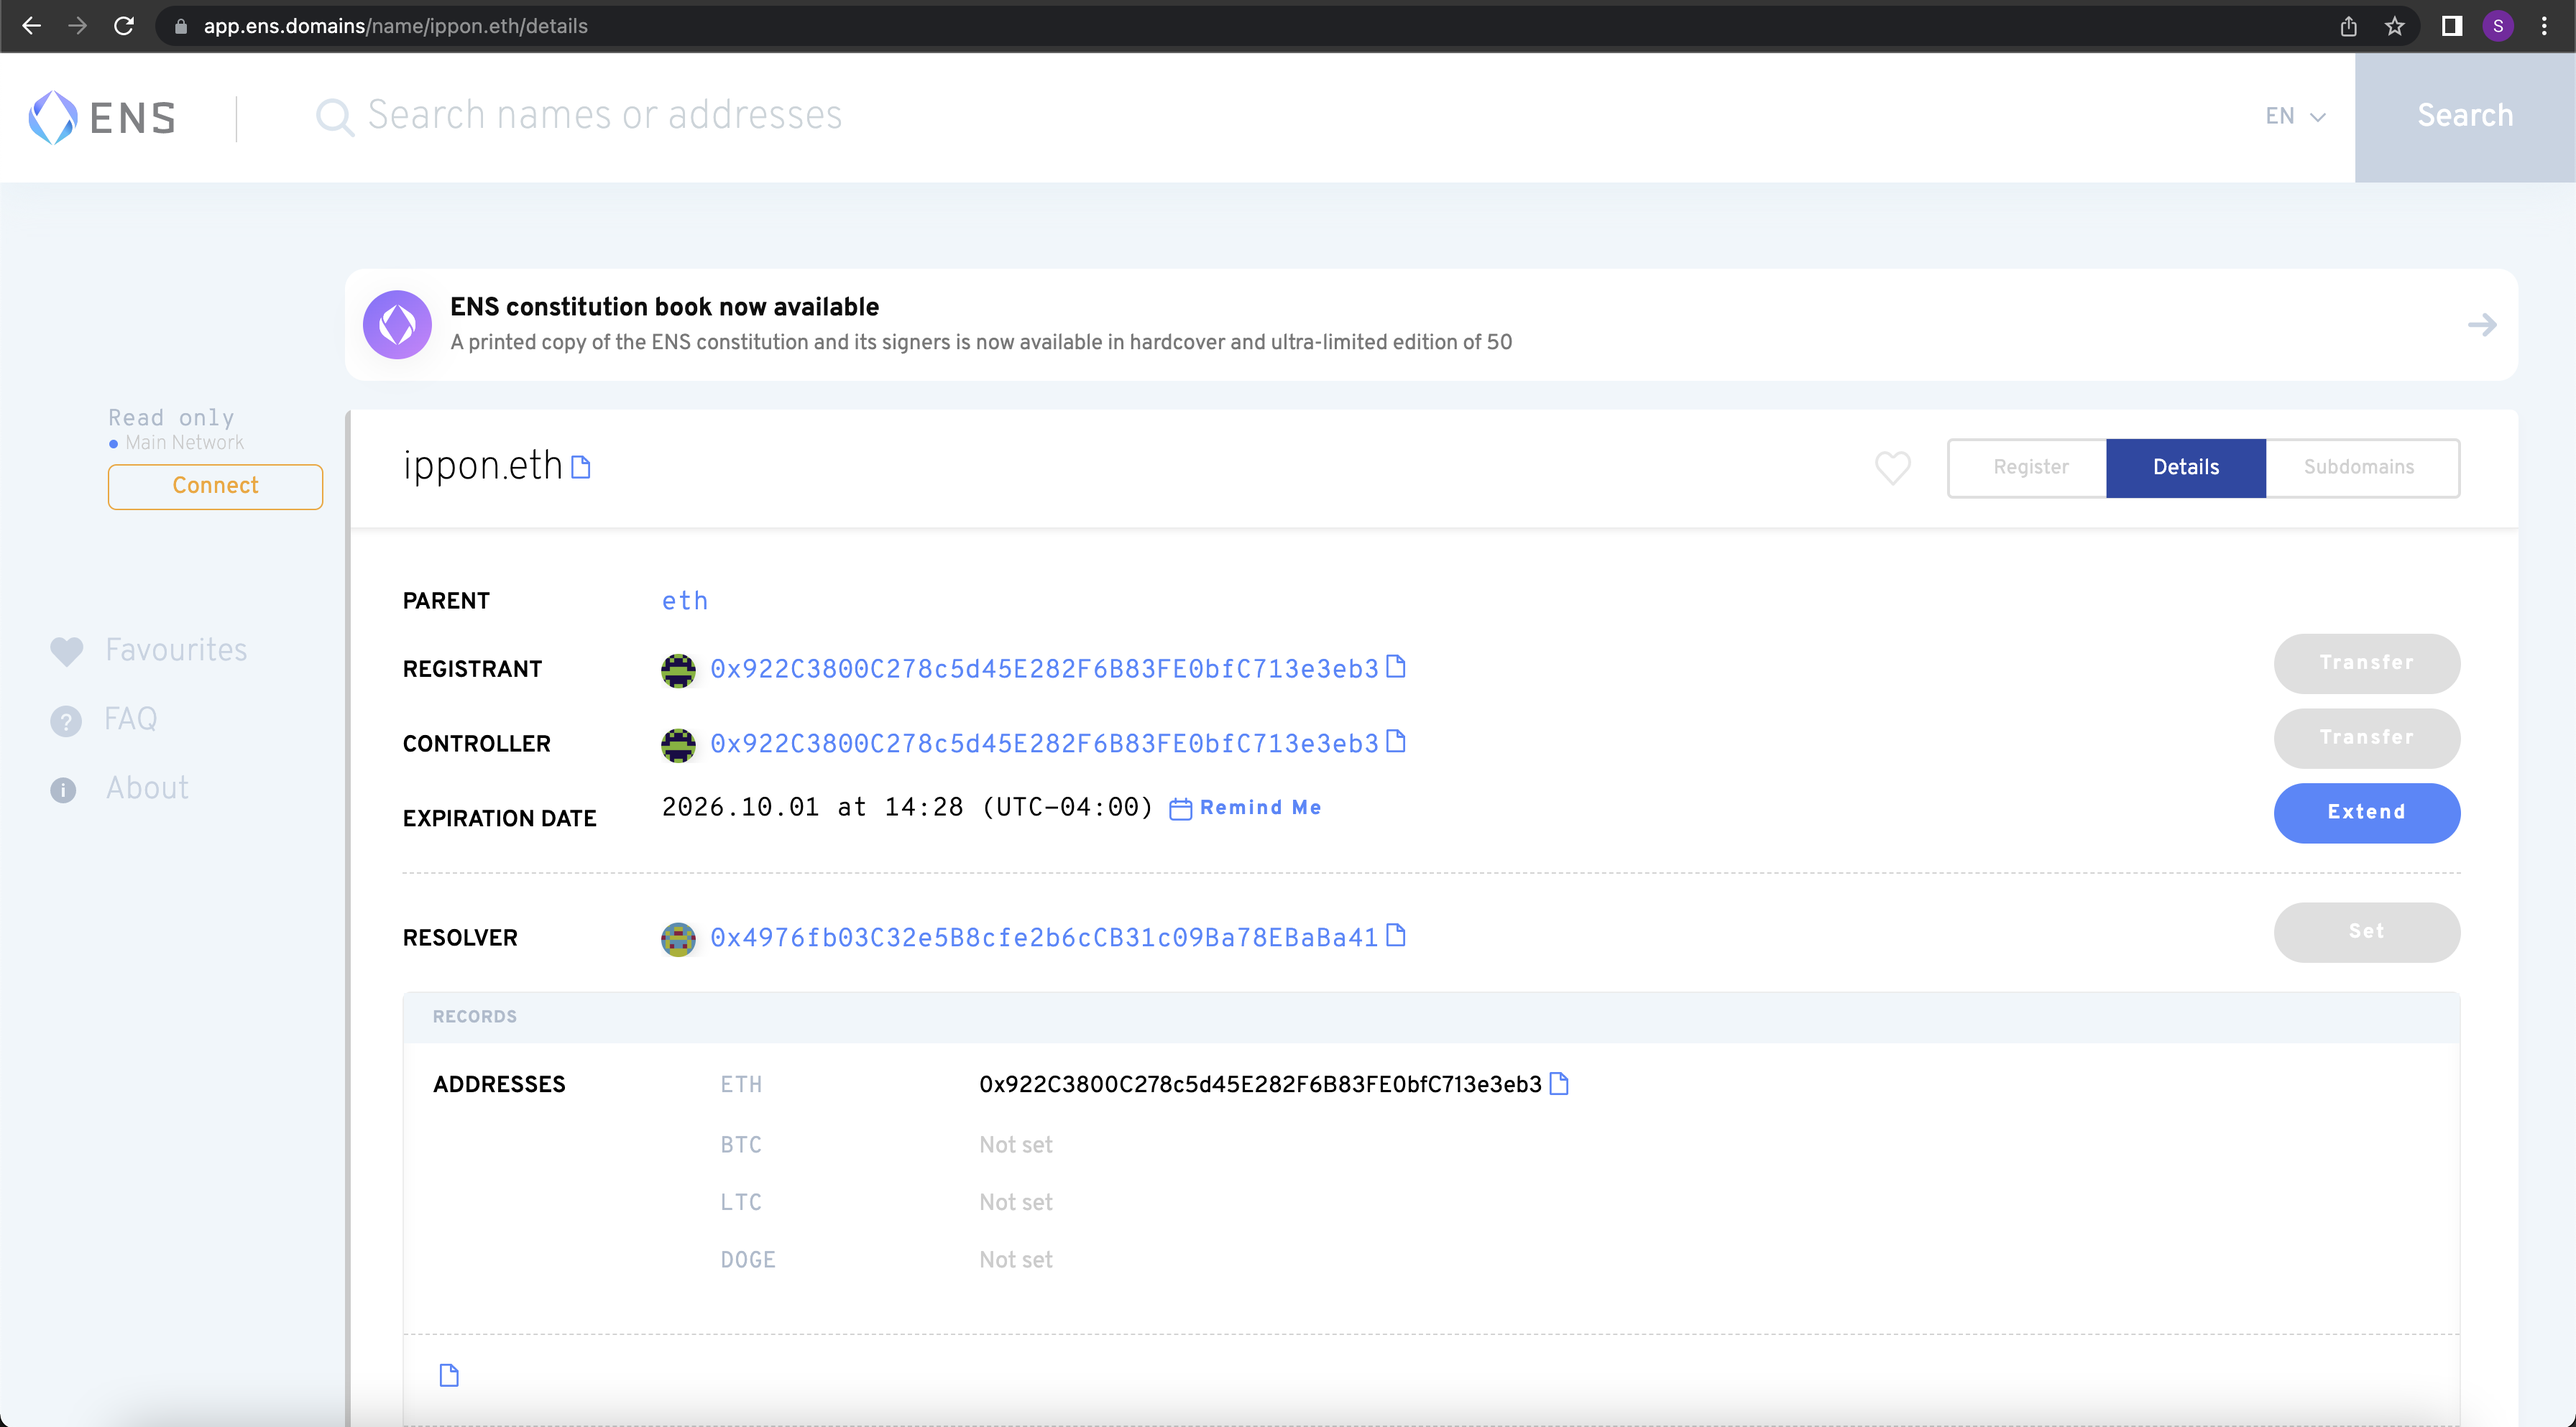
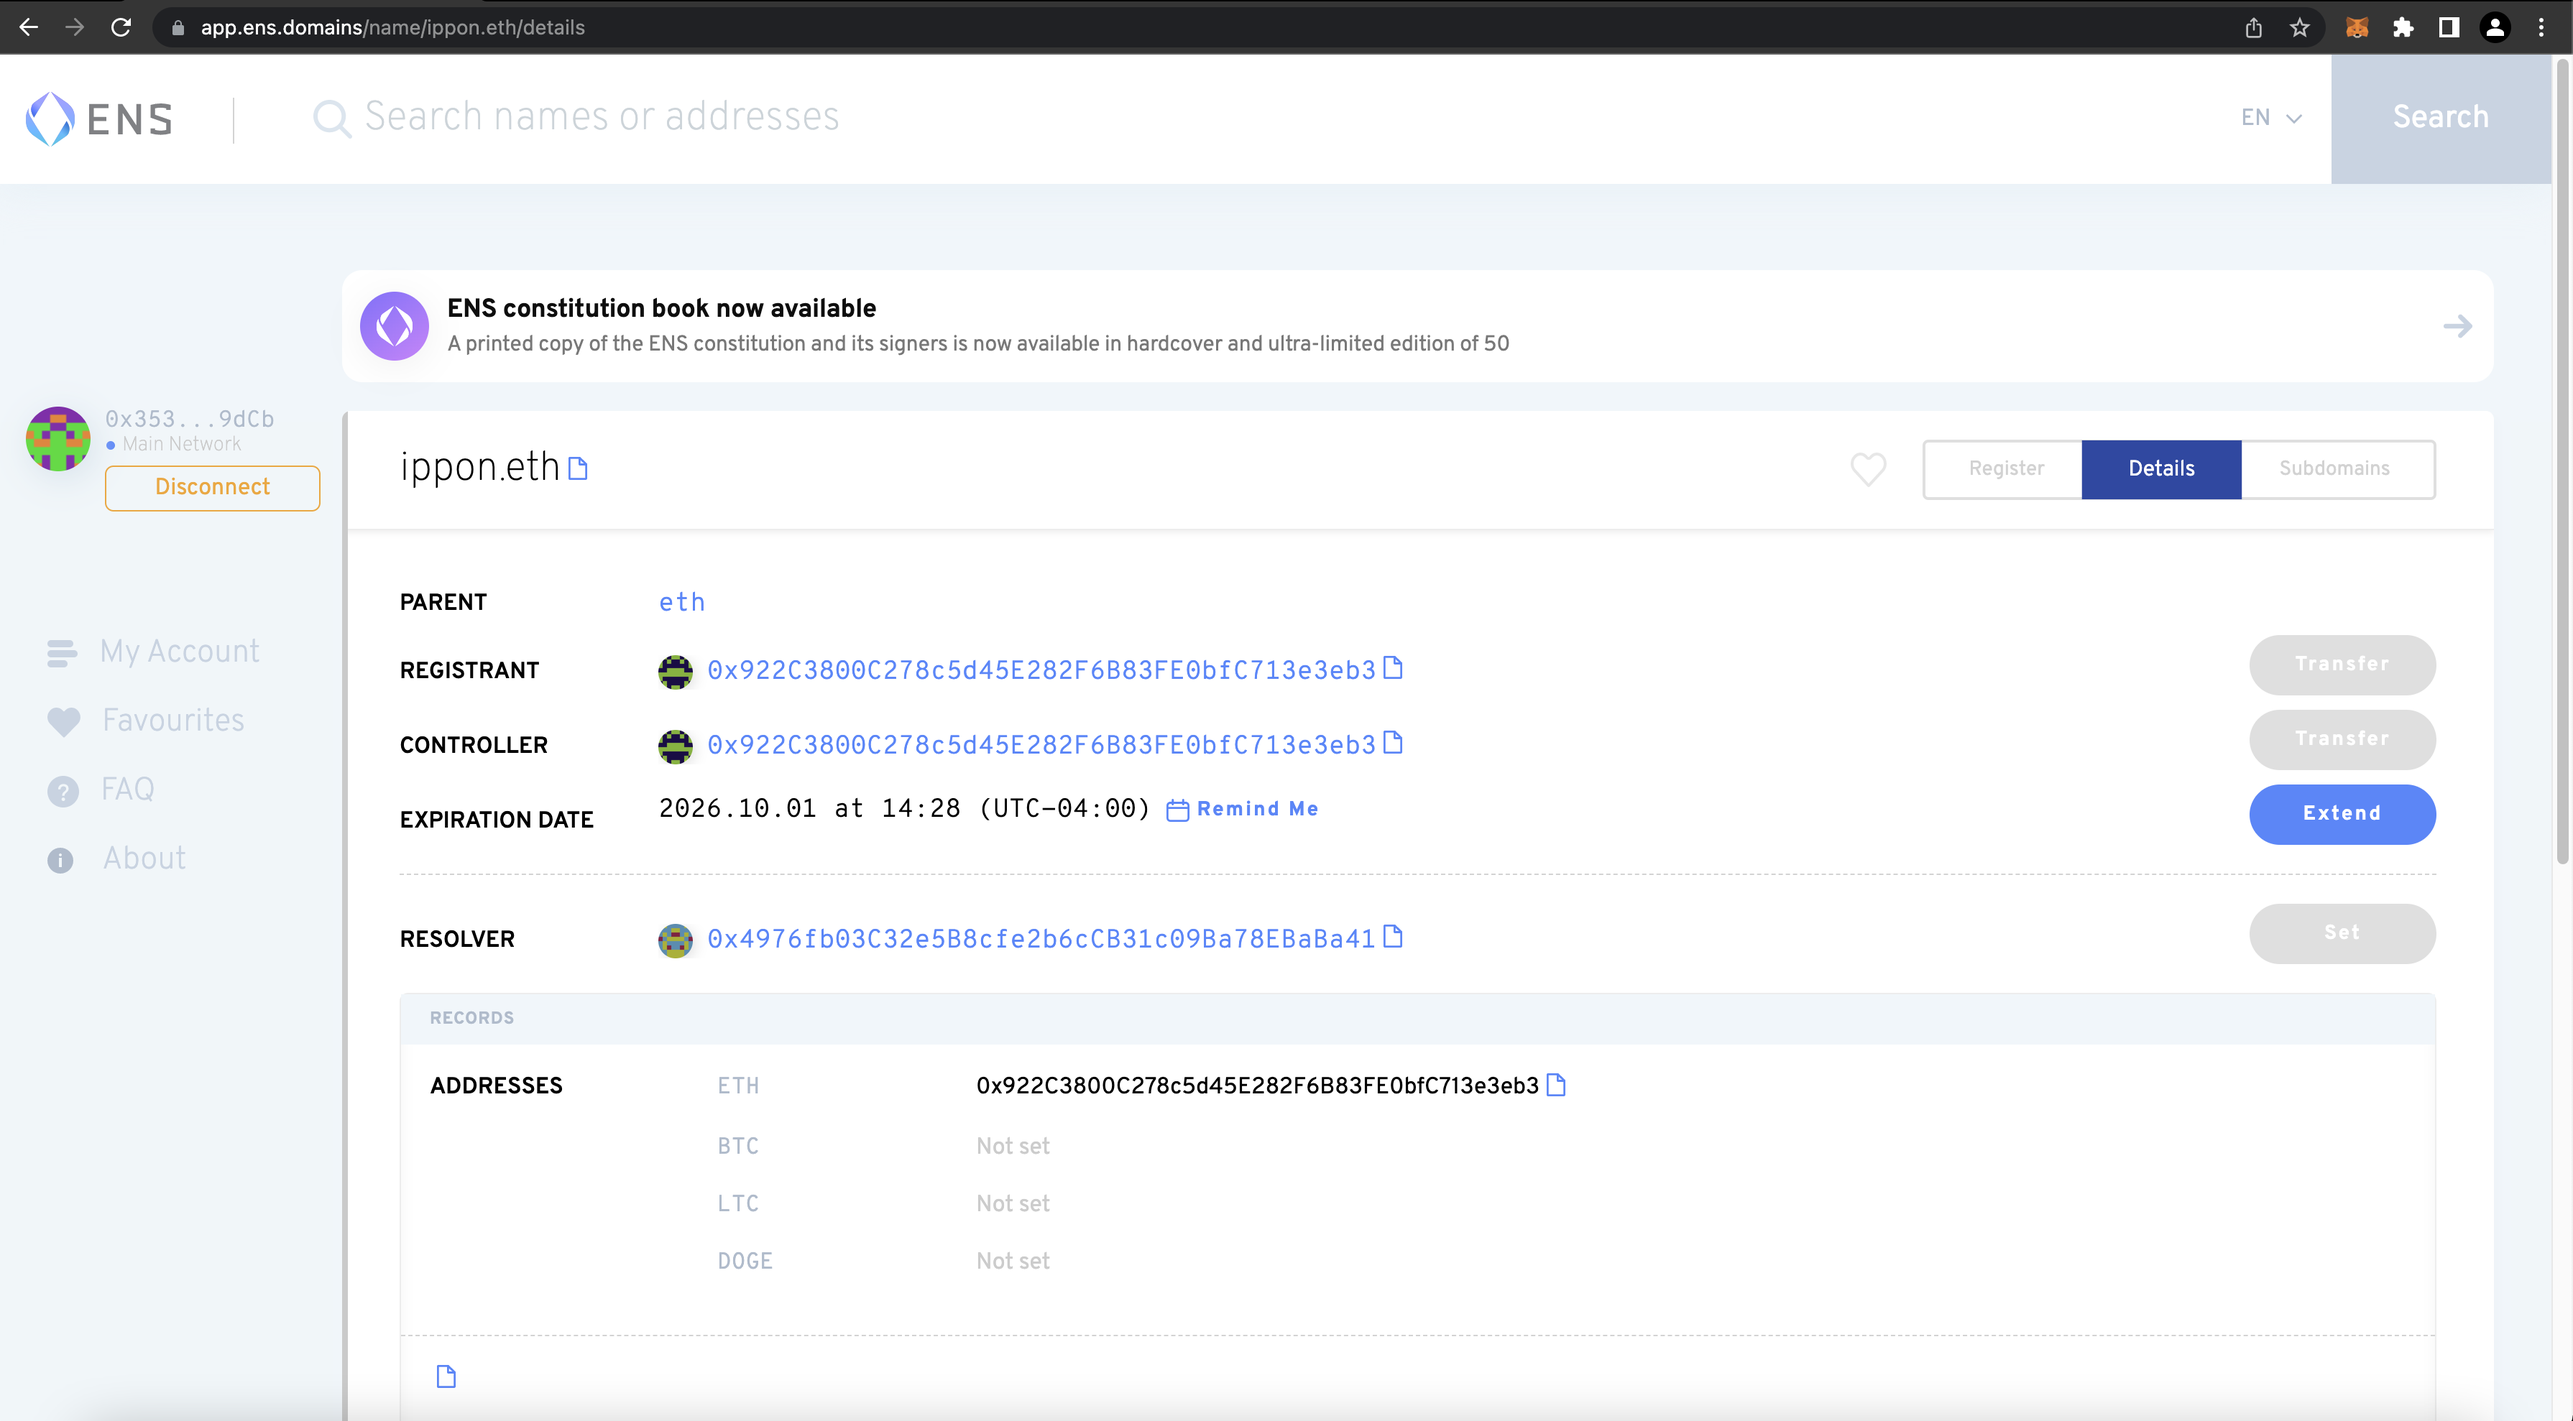
feat: using ENS wip

diff --git a/posts/web3-domain-ens-guide.md b/posts/web3-domain-ens-guide.md
@@ -44,8 +44,22 @@ Follow the instructions and make sure to save your secret seed phrase somewhere 
 
 ![MetaMask Wallet Registered](https://raw.githubusercontent.com/ippontech/blog-usa/master/images/2022/06/metamask.wallet.png)
 
-Once the wallet is setup, you can attach the wallet to the ENS app using the browser extension.
+You should be able to see your wallet after the setup is completed.
 
-## Linking the Wallet to ENS
+## Linking and funding a Wallet to ENS
+
+You can now attach the wallet to the ENS app using the browser extension.
 
 ![Connecting the MetaMask Wallet](https://raw.githubusercontent.com/ippontech/blog-usa/master/images/2022/06/metamask.ens.png)
+
+You can fund the wallet by buying ETH on MetaMask itself OR you can use an exchange like Coinbase, Kraken, Gemini or Binance (US) to buy the ETH there and then send it to your wallet's address.
+
+## Using ENS App
+
+In this example we search for "ippon.eth" 
+
+![ENS ippon.eth](https://raw.githubusercontent.com/ippontech/blog-usa/master/images/2022/06/ippon.eth.png)
+
+As you see, this ENS domain is already registered to an address :(
+
+![ippon.eth owner](../images/2022/06/ippon.eth.details.png)
